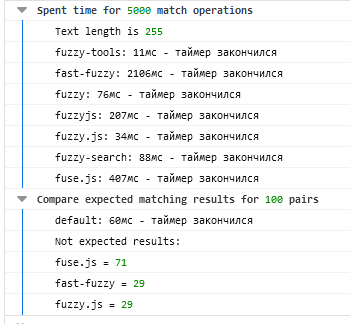
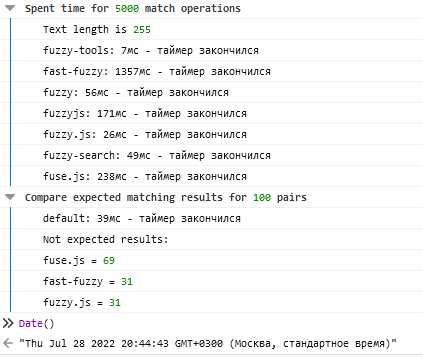
doc: readme, comparison results

Changed region(s): [[0.0, 0.0, 0.9429, 0.9877]]

diff --git a/README.md b/README.md
@@ -373,8 +373,8 @@ filter('fZZ', data, {
 It is more real case - 5000 items with 255 length string
 ![fuzzy-tools vs others in real case](./assets/benchmark-comparison-5000-255.png)
 
-It is test case - 5000 items with 5000 length string. And it is not mistake, it is real results.
-![fuzzy-tools vs others](./assets/benchmark-comparison-5000-5000.png)
+It is test case - 5000 items with 2000 length string. And it is not mistake, it is real results.
+![fuzzy-tools vs others](./assets/benchmark-comparison-5000-2000.png)
 
 #### **Benchmark project**
 
